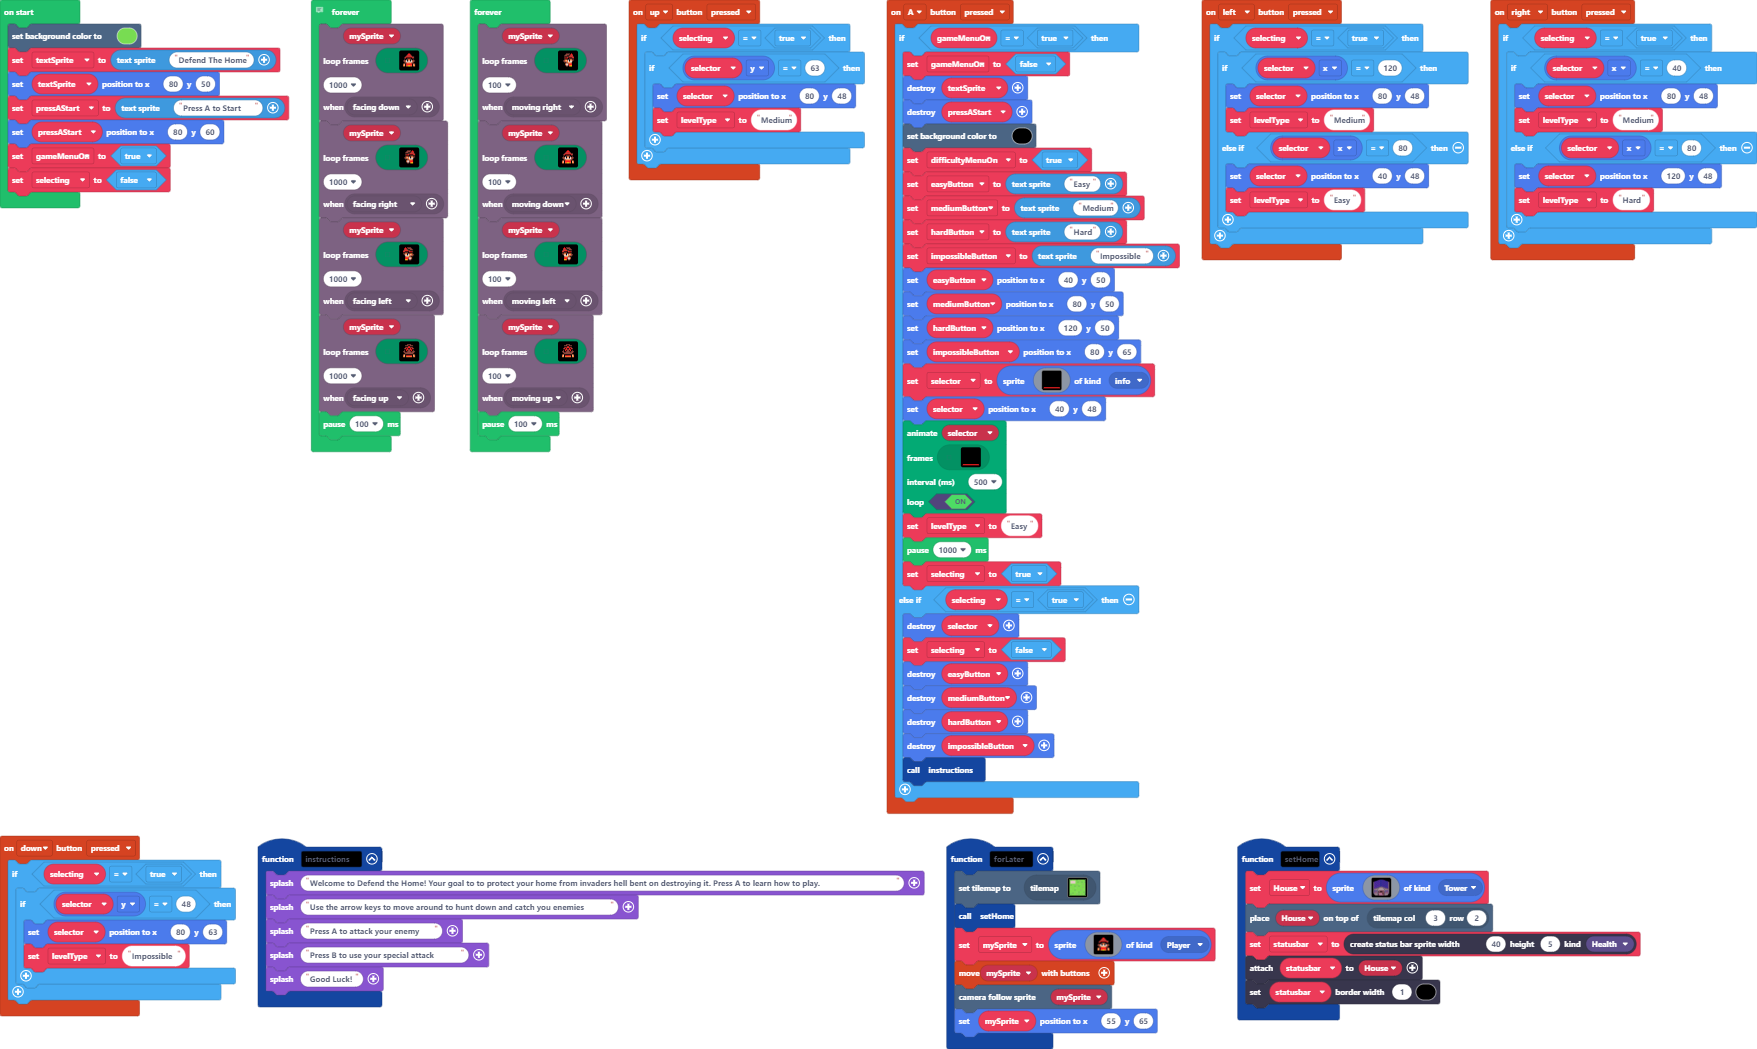
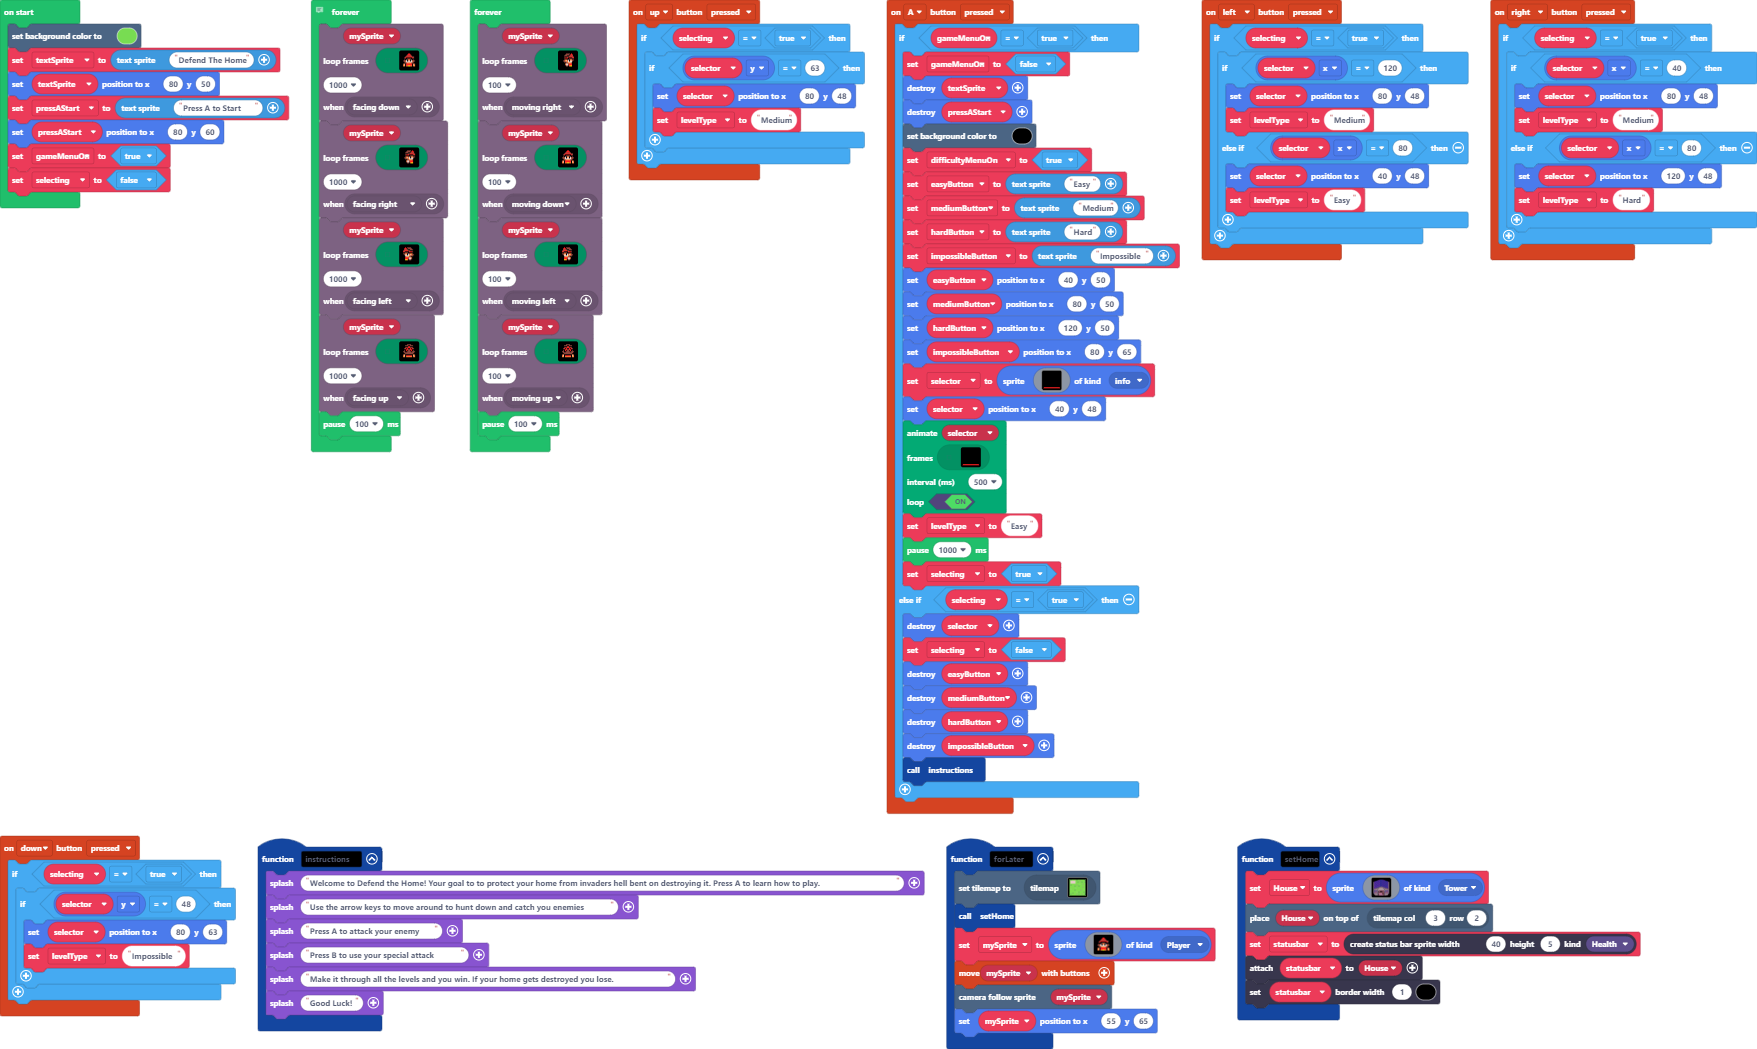
Update main.blocks, main.ts

Changed region(s): [[0.1229, 0.9152, 0.3995, 1.0]]

diff --git a/main.ts b/main.ts
@@ -12,6 +12,7 @@ function instructions () {
     game.splash("Use the arrow keys to move around to hunt down and catch you enemies")
     game.splash("Press A to attack your enemy")
     game.splash("Press B to use your special attack")
+    game.splash("Make it through all the levels and you win. If your home gets destroyed you lose.")
     game.splash("Good Luck!")
 }
 controller.up.onEvent(ControllerButtonEvent.Pressed, function () {
